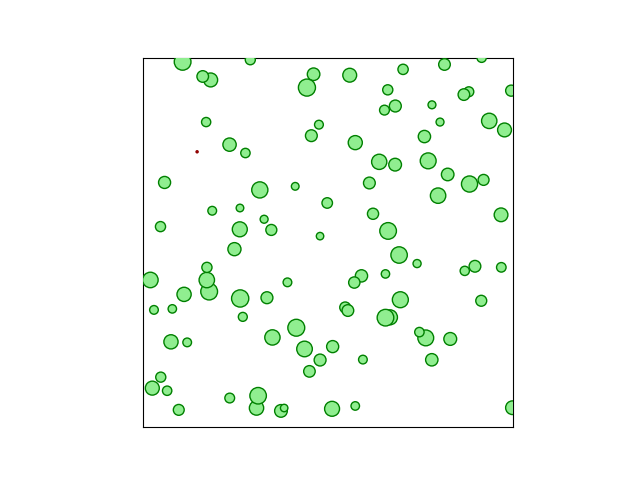
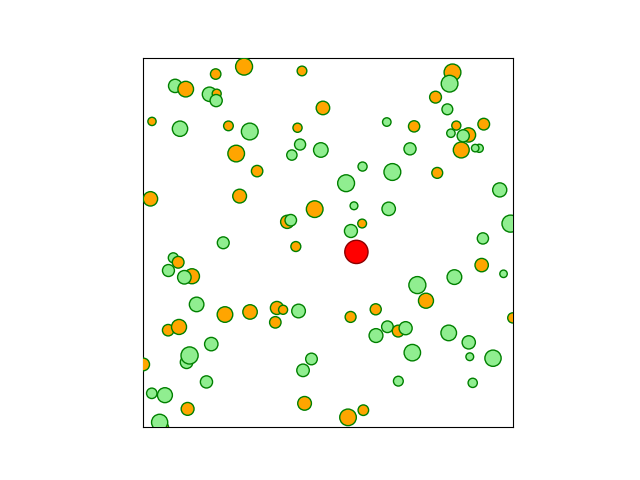
color change added

diff --git a/main.py b/main.py
@@ -16,25 +16,30 @@ y = np.random.uniform(0, 3, num_organisms)
 vx = np.random.normal(0, 0.01, num_organisms)  # Initial x velocity
 vy = np.random.normal(0, 0.01, num_organisms)  # Initial y velocity
 radii = np.random.uniform(0.03, 0.07, num_organisms)
+colors = ['lightgreen'] * num_organisms  # Initialize all organisms with lightgreen color
 
 # Initialize virus parameters
 virus_x = np.random.uniform(0, 3)
 virus_y = np.random.uniform(0, 3)
-virus_radius = np.random.uniform(0.05, 0.1)
+virus_radius = np.random.uniform(0.09, 0.1)
 virus_duration = 50  # Duration for which virus remains at one position
 virus_counter = 0  # Counter to track virus duration
 
-def plot_organism(x, y, r, ax):
-    circle = Circle([x, y], r, edgecolor='g', facecolor='lightgreen', zorder=8)
+def plot_organism(x, y, r, color, ax):
+    circle = Circle([x, y], r, edgecolor='g', facecolor=color, zorder=8)
     ax.add_artist(circle)
 
 def plot_virus(x, y, r, ax):
-    circle = Circle([x, y], r, edgecolor='darkred', facecolor='red', zorder=8)
+    circle = Circle([x, y], r, edgecolor='darkred', facecolor='red', zorder=1)
     ax.add_artist(circle)
 
+def check_collision(x_org, y_org, r_org, x_virus, y_virus, r_virus):
+    distance = np.sqrt((x_org - x_virus) ** 2 + (y_org - y_virus) ** 2)
+    return distance <= r_org + r_virus
+
 def update(frame):
-    global virus_x, virus_y, virus_radius, virus_counter
-    
+    global virus_x, virus_y, virus_radius, virus_counter, colors
+    plt.savefig('image.png', dpi=100)
     ax.clear()
     ax.set_aspect('equal')
     ax.set_xlim(0, 3)
@@ -58,19 +63,24 @@ def update(frame):
         vx[i] += np.random.normal(0, 0.001)
         vy[i] += np.random.normal(0, 0.001)
         
-        plot_organism(x[i], y[i], radii[i], ax)
+        # Check collision with virus
+        if check_collision(x[i], y[i], radii[i], virus_x, virus_y, virus_radius):
+            if colors[i] != 'orange':
+                colors[i] = 'orange'
+        
+        plot_organism(x[i], y[i], radii[i], colors[i], ax)
     
     # Update the virus position and duration
     if virus_counter == 0:
         # Reset virus position and radius
         virus_x = np.random.uniform(0, 3)
         virus_y = np.random.uniform(0, 3)
-        virus_radius = np.random.uniform(0, 0.1)
+        virus_radius = np.random.uniform(0.08, 0.1)
         virus_counter = virus_duration
     else:
         plot_virus(virus_x, virus_y, virus_radius, ax)
         virus_counter -= 1
 
 fig, ax = plt.subplots() 
-ani = FuncAnimation(fig, update, frames=range(1000), repeat=False, interval=8)  # Decrease the interval
+ani = FuncAnimation(fig, update, frames=range(1000), repeat=False, interval=20)  # Decrease the interval
 plt.show()
